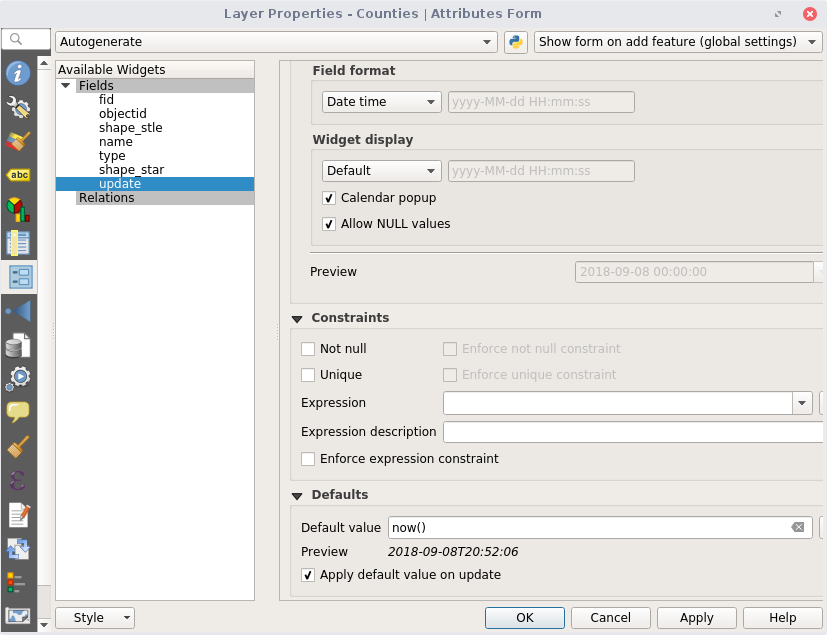
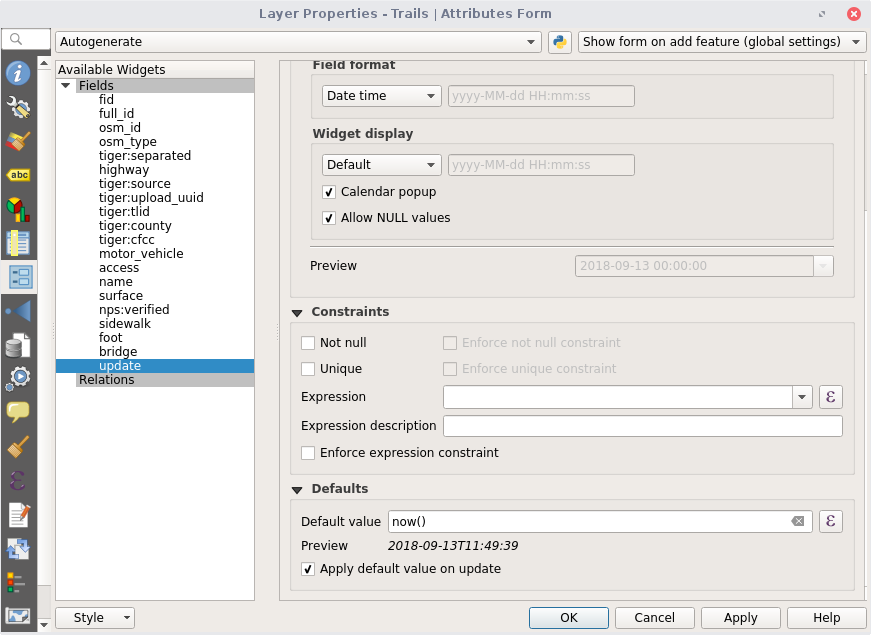
add table slides

diff --git a/index.html b/index.html
@@ -574,8 +574,19 @@
 </div>
 
 <div class="slide image_bottom">
+	<p>Let's look at the attrbute table. Right click on Trails and select <b>Open attribute table</b>.</p>
+	<img src="images/opentable.png"/>
+</div>
+
+<div class="slide image_bottom">
+	<p>Click on the pencil icon to start editing the table. Then click on the <b>Add field</b> icon. <b>Name</b> will be update and <b>Type</b> will be Date & Time.</p>
+	<img src="images/addfield.png"/>
+</div>
+
+<div class="slide image_bottom">
 	<h3 class="new">New Feature</h3>
-	<p>You can have fields auto-update based on an expression. Create an update field and set default to <code class="code">now()</code></p>
+	<p>You can have fields auto-update! Open Trails <b>Properties</b> &
+		go to <b>Attributes Form</b> tab. Set <b>Default value</b> to <code>now()</code> & check <b>Apply default value on update</b>.</p>
 	<img src="images/autoupdate.png"/>
 </div>
 
